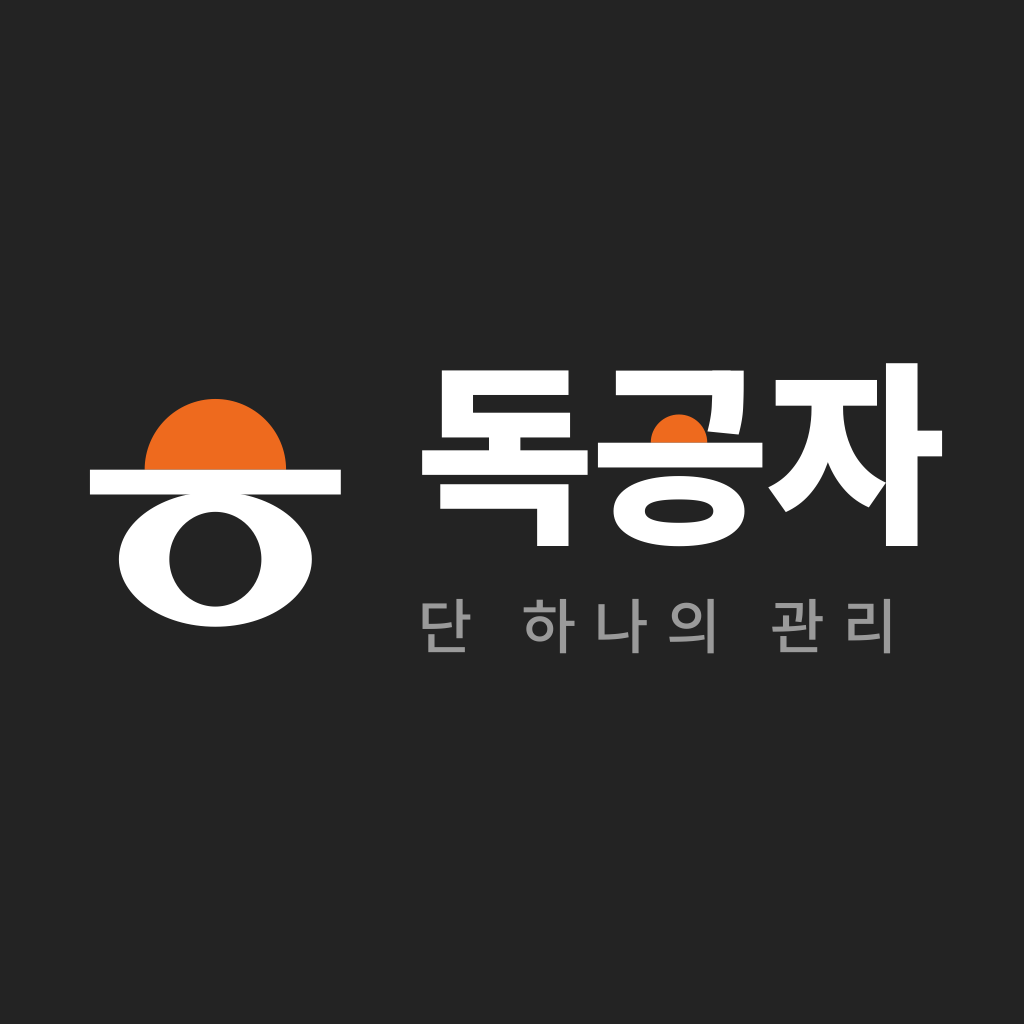
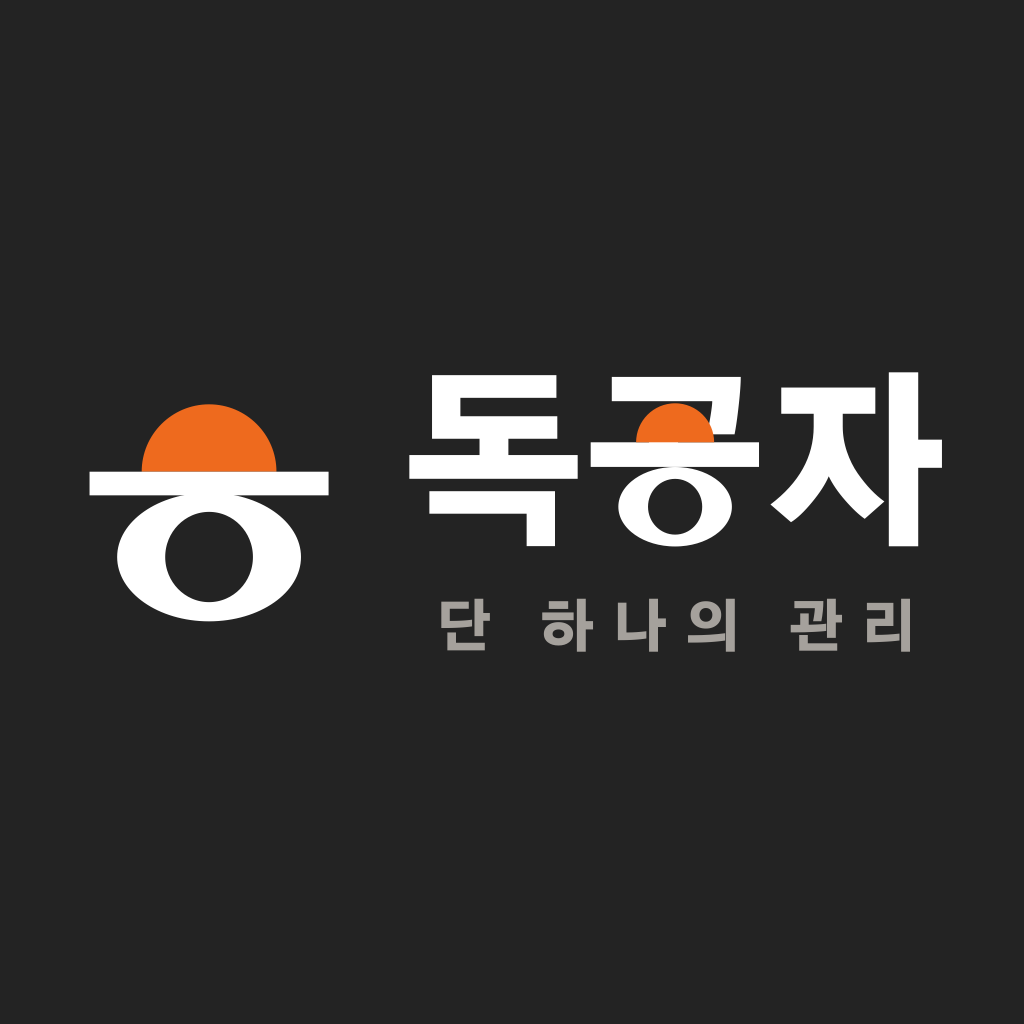
로고타입 서체를 Gothic A1 Black 으로 교체
본문용 Noto Sans KR 을 그대로 써서 정자체로 보이던 문제를 바로잡는다.
레퍼런스의 기하학적 디스플레이 자형에 맞춰 받침 ㄱ의 직각, 넓은 타원 ㅇ,
곧은 ㅈ 사선을 갖춘 서체로 다시 조판했다.

- '공'의 받침 ㅇ 을 심벌과 같은 비례의 타원(rx313 ry219)으로 교체해
  로고타입과 심벌이 같은 자형을 공유하게 했다
- 태양 반지름을 215 로 키워 ㄱ 가로획과 ㅗ 가로획 사이를 채운다
- 가이드·홈페이지의 로고타입 SVG 와 폭 지정, 전달폴더 전부 재생성
- 읽어보기에 서체 출처와 '서체만으로는 재현되지 않는다'는 안내 추가

diff --git a/site/index.html b/site/index.html
@@ -52,7 +52,7 @@ header.nav{position:sticky;top:env(safe-area-inset-top,0px);z-index:50;backgroun
   border-bottom:1px solid rgba(246,245,243,.12)}
 .nav .in{display:flex;align-items:center;gap:20px;padding-block:13px}
 .brand{display:flex;align-items:center;gap:11px;text-decoration:none;margin-right:auto}
-.brand .wm{display:block;height:auto;width:98px}
+.brand .wm{display:block;height:auto;width:101px}
 .navlinks{display:none;gap:26px}
 @media(min-width:860px){.navlinks{display:flex}}
 .navlinks a{color:var(--onDark-dim);text-decoration:none;font-size:14px;font-weight:500}
@@ -249,7 +249,7 @@ footer{background:var(--ink);color:var(--onDark-dim);padding-block:0 56px;font-s
 .sig{text-align:center;padding-block:clamp(56px,9vw,88px) clamp(48px,7vw,72px);
   border-bottom:1px solid rgba(246,245,243,.12)}
 .sig svg{display:block;margin:0 auto;--mk-ink:#F6F5F3}
-.signame{display:block;margin:clamp(24px,3.4vw,34px) auto 0;width:min(268px,62vw);height:auto;
+.signame{display:block;margin:clamp(24px,3.4vw,34px) auto 0;width:min(278px,64vw);height:auto;
   --mk-ink:#F6F5F3}
 .sigtag{font-family:var(--f-body);font-weight:500;color:var(--onDark-dim);line-height:1.4;
   font-size:clamp(11px,1.7vw,13.5px);letter-spacing:.4em;text-indent:.4em;margin-top:clamp(14px,2vw,20px)}
@@ -261,13 +261,13 @@ footer .legal{margin-top:28px;padding-top:22px;border-top:1px solid rgba(246,245
 @media (prefers-reduced-motion:reduce){*{animation:none!important;transition:none!important}}
 </style>
 
-<svg width="0" height="0" style="position:absolute;overflow:hidden" aria-hidden="true" focusable="false"><symbol id="mk" viewBox="0 0 200 200"><path fill="var(--mk-sun)" d="M47.0,68.30000000000001 a53.0,53.0 0 0,1 106.0,0 Z"/><rect x="6.0" y="68.30000000000001" width="188.0" height="18.6" fill="var(--mk-ink)"/><path fill="var(--mk-ink)" fill-rule="evenodd" d="M27.700000000000003,135.4 a72.3,50.6 0 1,0 144.6,0 a72.3,50.6 0 1,0 -144.6,0 Z M65.5,135.4 a34.5,35.5 0 1,0 69.0,0 a34.5,35.5 0 1,0 -69.0,0 Z"/></symbol><symbol id="lt" viewBox="0 0 355.1 120.0"><g transform="translate(-5.06,107.21) scale(0.13319)"><path fill="var(--mk-ink)" d="M36.0 -396.0H885.0V-270.0H36.0ZM379.0 -544.0H540.0V-360.0H379.0ZM129.0 -222.0H787.0V95.0H626.0V-96.0H129.0ZM137.0 -589.0H795.0V-462.0H137.0ZM137.0 -806.0H787.0V-680.0H297.0V-520.0H137.0Z"/><g transform="translate(900.0,0)"><path fill="var(--mk-sun)" d="M309.0,-435 a145.0,145.0 0 0,1 290.0,0 Z"/><path fill="var(--mk-ink)" d="M130.0 -805.0H719.0V-679.0H130.0Z"/><path fill="var(--mk-ink)" d="M625.0 -805.0H786.0V-729.0Q786.0 -674.0 783.0 -612.0Q780.0 -550.0 760.0 -477.0L600.0 -493.0Q619.0 -565.0 622.0 -620.0Q625.0 -675.0 625.0 -729.0Z"/><path fill="var(--mk-ink)" d="M38.0 -435.0H882.0V-308.0H38.0Z"/><path fill="var(--mk-ink)" fill-rule="evenodd" d="M454.0 -264.0Q556.0 -264.0 631.5 -242.5Q707.0 -221.0 748.5 -180.5Q790.0 -140.0 790.0 -84.0Q790.0 -28.0 748.5 12.5Q707.0 53.0 631.5 74.5Q556.0 96.0 454.0 96.0Q352.0 96.0 276.5 74.5Q201.0 53.0 159.5 12.5Q118.0 -28.0 118.0 -84.0Q118.0 -140.0 159.5 -180.5Q201.0 -221.0 276.5 -242.5Q352.0 -264.0 454.0 -264.0Z M454.0 -144.0Q396.0 -144.0 357.0 -138.0Q318.0 -132.0 298.5 -118.5Q279.0 -105.0 279.0 -84.0Q279.0 -63.0 298.5 -50.0Q318.0 -37.0 357.0 -30.5Q396.0 -24.0 454.0 -24.0Q512.0 -24.0 551.0 -30.5Q590.0 -37.0 610.0 -50.0Q630.0 -63.0 630.0 -84.0Q630.0 -105.0 610.0 -118.5Q590.0 -132.0 551.0 -138.0Q512.0 -144.0 454.0 -144.0Z"/></g><path fill="var(--mk-ink)" d="M2034.0 -688.0H2161.0V-608.0Q2161.0 -526.0 2146.5 -445.0Q2132.0 -364.0 2101.5 -293.0Q2071.0 -222.0 2021.5 -166.5Q1972.0 -111.0 1902.0 -79.0L1812.0 -206.0Q1874.0 -235.0 1916.5 -280.0Q1959.0 -325.0 1985.0 -379.5Q2011.0 -434.0 2022.5 -492.5Q2034.0 -551.0 2034.0 -608.0ZM2069.0 -688.0H2196.0V-608.0Q2196.0 -556.0 2207.5 -501.5Q2219.0 -447.0 2244.5 -395.0Q2270.0 -343.0 2312.5 -300.5Q2355.0 -258.0 2416.0 -230.0L2328.0 -103.0Q2258.0 -134.0 2209.0 -187.5Q2160.0 -241.0 2129.0 -309.0Q2098.0 -377.0 2083.5 -453.5Q2069.0 -530.0 2069.0 -608.0ZM1850.0 -757.0H2370.0V-625.0H1850.0ZM2416.0 -843.0H2578.0V95.0H2416.0ZM2543.0 -497.0H2704.0V-365.0H2543.0Z"/></g></symbol></svg>
+<svg width="0" height="0" style="position:absolute;overflow:hidden" aria-hidden="true" focusable="false"><symbol id="mk" viewBox="0 0 200 200"><path fill="var(--mk-sun)" d="M47.0,68.30000000000001 a53.0,53.0 0 0,1 106.0,0 Z"/><rect x="6.0" y="68.30000000000001" width="188.0" height="18.6" fill="var(--mk-ink)"/><path fill="var(--mk-ink)" fill-rule="evenodd" d="M27.700000000000003,135.4 a72.3,50.6 0 1,0 144.6,0 a72.3,50.6 0 1,0 -144.6,0 Z M65.5,135.4 a34.5,35.5 0 1,0 69.0,0 a34.5,35.5 0 1,0 -69.0,0 Z"/></symbol><symbol id="lt" viewBox="0 0 367.0 120.0"><g transform="translate(-5.49,108.65) scale(0.12501)"><path fill="var(--mk-ink)" d="M154.3 -89.8V-213.9H846.7V88.9H690.4V-89.8ZM43.9 -282.2V-413.1H430.7V-560.5H589.8V-413.1H971.7V-282.2ZM168.9 -502.9V-853.5H854.5V-728.5H325.2V-627.0H859.4V-502.9Z"/><g transform="translate(999.5,0)"><path fill="var(--mk-ink)" d="M160.2 -710.0V-843.8H871.1Q871.1 -790.0 859.9 -688.0Q848.6 -585.9 836.9 -527.3H684.6Q695.3 -571.3 704.6 -629.9Q713.9 -688.5 713.9 -710.0Z"/><path fill="var(--mk-ink)" d="M43.9 -347.7V-483.4H365.2V-635.7H525.4V-483.4H971.7V-347.7Z"/><path fill="var(--mk-ink)" fill-rule="evenodd" d="M196.33102766798424,-128.2 a312.91897233201576,219.0 0 1,0 625.8379446640315,0 a312.91897233201576,219.0 0 1,0 -625.8379446640315,0 Z M359.9318181818182,-128.2 a149.3181818181818,153.64624505928853 0 1,0 298.6363636363636,0 a149.3181818181818,153.64624505928853 0 1,0 -298.6363636363636,0 Z"/><path fill="var(--mk-sun)" d="M294.25,-483.4 a215.0,215.0 0 0,1 430.0,0 Z"/></g><path fill="var(--mk-ink)" d="M2686.6 89.8V-869.1H2848.7V-498.0H2979.5V-342.8H2848.7V89.8ZM2034.2 -140.6Q2271.5 -320.3 2272.5 -568.4V-640.6H2093.8V-785.2H2612.3V-640.6H2432.7V-570.3Q2432.7 -500.0 2455.6 -432.1Q2478.6 -364.3 2515.2 -312.0Q2551.8 -259.8 2588.4 -221.7Q2625.0 -183.6 2662.1 -157.2L2553.8 -61.5Q2505.9 -94.7 2445.8 -163.6Q2385.8 -232.4 2355.5 -295.9Q2328.2 -231.4 2263.2 -152.8Q2198.3 -74.2 2147.5 -43.0Z"/></g></symbol></svg>
 
 <header class="nav">
   <div class="in">
     <a class="brand" href="#top">
       <svg width="34" height="34" viewBox="0 0 200 200" aria-hidden="true" style="--mk-ink:#F6F5F3"><use href="#mk"/></svg>
-      <svg class="wm" width="98" height="33" viewBox="0 0 355.1 120" aria-label="독공자" style="--mk-ink:#F6F5F3"><use href="#lt"/></svg>
+      <svg class="wm" width="101" height="33" viewBox="0 0 367.0 120.0" aria-label="독공자" style="--mk-ink:#F6F5F3"><use href="#lt"/></svg>
     </a>
     <nav class="navlinks">
       <a href="#steps">3단 체계</a>
@@ -701,7 +701,7 @@ footer .legal{margin-top:28px;padding-top:22px;border-top:1px solid rgba(246,245
   <div class="in">
     <div class="sig">
       <svg width="118" height="118" viewBox="0 0 200 200" aria-hidden="true"><use href="#mk"/></svg>
-      <svg class="signame" width="268" height="91" viewBox="0 0 355.1 120" aria-label="독공자"><use href="#lt"/></svg>
+      <svg class="signame" width="278" height="91" viewBox="0 0 367.0 120.0" aria-label="독공자"><use href="#lt"/></svg>
       <p class="sigtag">단 하나의 관리</p>
     </div>
     <div class="top">

diff --git a/brand/dokgongja-brand-guide.html b/brand/dokgongja-brand-guide.html
@@ -201,7 +201,7 @@ footer a{color:var(--grey)}
 @media (prefers-reduced-motion:reduce){*{animation:none!important;transition:none!important}}
 </style>
 
-<svg width="0" height="0" style="position:absolute;overflow:hidden" aria-hidden="true" focusable="false"><symbol id="mk" viewBox="0 0 200 200"><path fill="var(--mk-sun)" d="M47.0,68.30000000000001 a53.0,53.0 0 0,1 106.0,0 Z"/><rect x="6.0" y="68.30000000000001" width="188.0" height="18.6" fill="var(--mk-ink)"/><path fill="var(--mk-ink)" fill-rule="evenodd" d="M27.700000000000003,135.4 a72.3,50.6 0 1,0 144.6,0 a72.3,50.6 0 1,0 -144.6,0 Z M65.5,135.4 a34.5,35.5 0 1,0 69.0,0 a34.5,35.5 0 1,0 -69.0,0 Z"/></symbol><symbol id="lt" viewBox="0 0 355.1 120.0"><g transform="translate(-5.06,107.21) scale(0.13319)"><path fill="var(--mk-ink)" d="M36.0 -396.0H885.0V-270.0H36.0ZM379.0 -544.0H540.0V-360.0H379.0ZM129.0 -222.0H787.0V95.0H626.0V-96.0H129.0ZM137.0 -589.0H795.0V-462.0H137.0ZM137.0 -806.0H787.0V-680.0H297.0V-520.0H137.0Z"/><g transform="translate(900.0,0)"><path fill="var(--mk-sun)" d="M309.0,-435 a145.0,145.0 0 0,1 290.0,0 Z"/><path fill="var(--mk-ink)" d="M130.0 -805.0H719.0V-679.0H130.0Z"/><path fill="var(--mk-ink)" d="M625.0 -805.0H786.0V-729.0Q786.0 -674.0 783.0 -612.0Q780.0 -550.0 760.0 -477.0L600.0 -493.0Q619.0 -565.0 622.0 -620.0Q625.0 -675.0 625.0 -729.0Z"/><path fill="var(--mk-ink)" d="M38.0 -435.0H882.0V-308.0H38.0Z"/><path fill="var(--mk-ink)" fill-rule="evenodd" d="M454.0 -264.0Q556.0 -264.0 631.5 -242.5Q707.0 -221.0 748.5 -180.5Q790.0 -140.0 790.0 -84.0Q790.0 -28.0 748.5 12.5Q707.0 53.0 631.5 74.5Q556.0 96.0 454.0 96.0Q352.0 96.0 276.5 74.5Q201.0 53.0 159.5 12.5Q118.0 -28.0 118.0 -84.0Q118.0 -140.0 159.5 -180.5Q201.0 -221.0 276.5 -242.5Q352.0 -264.0 454.0 -264.0Z M454.0 -144.0Q396.0 -144.0 357.0 -138.0Q318.0 -132.0 298.5 -118.5Q279.0 -105.0 279.0 -84.0Q279.0 -63.0 298.5 -50.0Q318.0 -37.0 357.0 -30.5Q396.0 -24.0 454.0 -24.0Q512.0 -24.0 551.0 -30.5Q590.0 -37.0 610.0 -50.0Q630.0 -63.0 630.0 -84.0Q630.0 -105.0 610.0 -118.5Q590.0 -132.0 551.0 -138.0Q512.0 -144.0 454.0 -144.0Z"/></g><path fill="var(--mk-ink)" d="M2034.0 -688.0H2161.0V-608.0Q2161.0 -526.0 2146.5 -445.0Q2132.0 -364.0 2101.5 -293.0Q2071.0 -222.0 2021.5 -166.5Q1972.0 -111.0 1902.0 -79.0L1812.0 -206.0Q1874.0 -235.0 1916.5 -280.0Q1959.0 -325.0 1985.0 -379.5Q2011.0 -434.0 2022.5 -492.5Q2034.0 -551.0 2034.0 -608.0ZM2069.0 -688.0H2196.0V-608.0Q2196.0 -556.0 2207.5 -501.5Q2219.0 -447.0 2244.5 -395.0Q2270.0 -343.0 2312.5 -300.5Q2355.0 -258.0 2416.0 -230.0L2328.0 -103.0Q2258.0 -134.0 2209.0 -187.5Q2160.0 -241.0 2129.0 -309.0Q2098.0 -377.0 2083.5 -453.5Q2069.0 -530.0 2069.0 -608.0ZM1850.0 -757.0H2370.0V-625.0H1850.0ZM2416.0 -843.0H2578.0V95.0H2416.0ZM2543.0 -497.0H2704.0V-365.0H2543.0Z"/></g></symbol></svg>
+<svg width="0" height="0" style="position:absolute;overflow:hidden" aria-hidden="true" focusable="false"><symbol id="mk" viewBox="0 0 200 200"><path fill="var(--mk-sun)" d="M47.0,68.30000000000001 a53.0,53.0 0 0,1 106.0,0 Z"/><rect x="6.0" y="68.30000000000001" width="188.0" height="18.6" fill="var(--mk-ink)"/><path fill="var(--mk-ink)" fill-rule="evenodd" d="M27.700000000000003,135.4 a72.3,50.6 0 1,0 144.6,0 a72.3,50.6 0 1,0 -144.6,0 Z M65.5,135.4 a34.5,35.5 0 1,0 69.0,0 a34.5,35.5 0 1,0 -69.0,0 Z"/></symbol><symbol id="lt" viewBox="0 0 367.0 120.0"><g transform="translate(-5.49,108.65) scale(0.12501)"><path fill="var(--mk-ink)" d="M154.3 -89.8V-213.9H846.7V88.9H690.4V-89.8ZM43.9 -282.2V-413.1H430.7V-560.5H589.8V-413.1H971.7V-282.2ZM168.9 -502.9V-853.5H854.5V-728.5H325.2V-627.0H859.4V-502.9Z"/><g transform="translate(999.5,0)"><path fill="var(--mk-ink)" d="M160.2 -710.0V-843.8H871.1Q871.1 -790.0 859.9 -688.0Q848.6 -585.9 836.9 -527.3H684.6Q695.3 -571.3 704.6 -629.9Q713.9 -688.5 713.9 -710.0Z"/><path fill="var(--mk-ink)" d="M43.9 -347.7V-483.4H365.2V-635.7H525.4V-483.4H971.7V-347.7Z"/><path fill="var(--mk-ink)" fill-rule="evenodd" d="M196.33102766798424,-128.2 a312.91897233201576,219.0 0 1,0 625.8379446640315,0 a312.91897233201576,219.0 0 1,0 -625.8379446640315,0 Z M359.9318181818182,-128.2 a149.3181818181818,153.64624505928853 0 1,0 298.6363636363636,0 a149.3181818181818,153.64624505928853 0 1,0 -298.6363636363636,0 Z"/><path fill="var(--mk-sun)" d="M294.25,-483.4 a215.0,215.0 0 0,1 430.0,0 Z"/></g><path fill="var(--mk-ink)" d="M2686.6 89.8V-869.1H2848.7V-498.0H2979.5V-342.8H2848.7V89.8ZM2034.2 -140.6Q2271.5 -320.3 2272.5 -568.4V-640.6H2093.8V-785.2H2612.3V-640.6H2432.7V-570.3Q2432.7 -500.0 2455.6 -432.1Q2478.6 -364.3 2515.2 -312.0Q2551.8 -259.8 2588.4 -221.7Q2625.0 -183.6 2662.1 -157.2L2553.8 -61.5Q2505.9 -94.7 2445.8 -163.6Q2385.8 -232.4 2355.5 -295.9Q2328.2 -231.4 2263.2 -152.8Q2198.3 -74.2 2147.5 -43.0Z"/></g></symbol></svg>
 <div class="wrap">
 <div class="shell">
 
@@ -605,7 +605,7 @@ footer a{color:var(--grey)}
     <div class="lock-h" style="--g:28px">
       <svg class="mark" width="92" height="92" viewBox="0 0 200 200" aria-label="독공자 심벌"><use href="#mk"/></svg>
       <div>
-        <svg width="222" height="75" viewBox="0 0 355.1 120" aria-label="독공자"><use href="#lt"/></svg>
+        <svg width="229" height="75" viewBox="0 0 367.0 120.0" aria-label="독공자"><use href="#lt"/></svg>
         <div class="en-s" style="font-size:11px;margin-top:10px;letter-spacing:.34em">단 하나의 관리</div>
       </div>
     </div>
@@ -643,7 +643,7 @@ footer a{color:var(--grey)}
     </div>
     <div>
       <div class="specimen" style="min-height:150px">
-        <svg width="236" height="80" viewBox="0 0 355.1 120" aria-label="독공자"><use href="#lt"/></svg>
+        <svg width="245" height="80" viewBox="0 0 367.0 120.0" aria-label="독공자"><use href="#lt"/></svg>
       </div>
       <p class="cap">로고타입 — 이름을 읽혀야 하는 자리</p>
     </div>
@@ -652,7 +652,7 @@ footer a{color:var(--grey)}
         <div class="lock-v">
           <svg width="66" height="66" viewBox="0 0 200 200" aria-hidden="true"><use href="#mk"/></svg>
           <div>
-            <svg width="150" height="51" viewBox="0 0 355.1 120" aria-hidden="true"><use href="#lt"/></svg>
+            <svg width="156" height="51" viewBox="0 0 367.0 120.0" aria-hidden="true"><use href="#lt"/></svg>
             <div class="en-s" style="font-size:8.5px;margin-top:9px;letter-spacing:.34em">단 하나의 관리</div>
           </div>
         </div>
@@ -663,7 +663,7 @@ footer a{color:var(--grey)}
       <div class="specimen dark" style="min-height:150px">
         <div class="lock-h" style="--g:22px;--mk-ink:#F6F5F3">
           <svg width="62" height="62" viewBox="0 0 200 200" aria-hidden="true"><use href="#mk"/></svg>
-          <svg width="150" height="51" viewBox="0 0 355.1 120" aria-hidden="true" style="--mk-ink:#F6F5F3"><use href="#lt"/></svg>
+          <svg width="156" height="51" viewBox="0 0 367.0 120.0" aria-hidden="true" style="--mk-ink:#F6F5F3"><use href="#lt"/></svg>
         </div>
       </div>
       <p class="cap">반전형 — 어두운 배경에서 먹을 흰색으로. 태양은 그대로</p>
